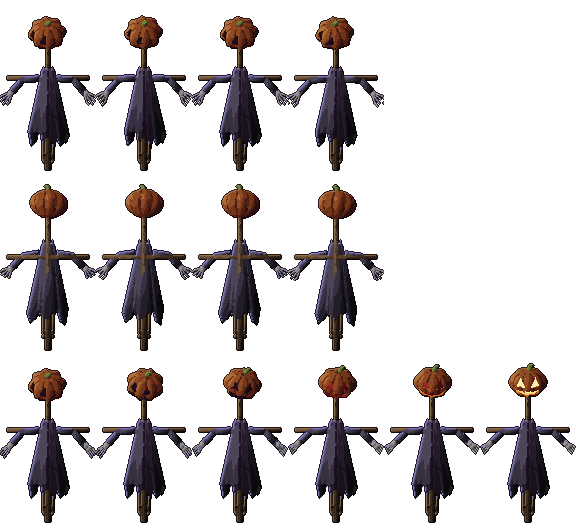
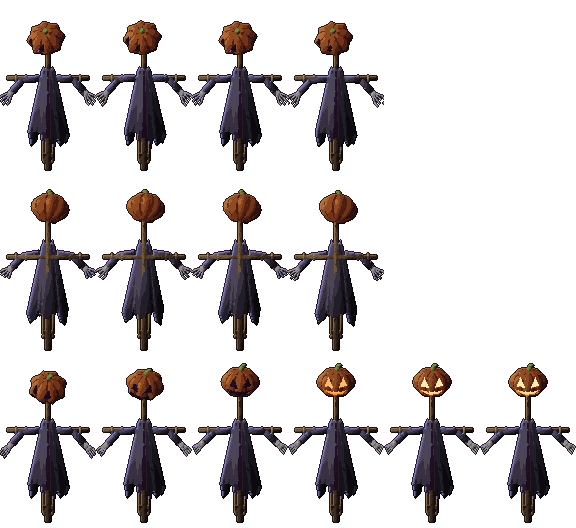
Scarecrow wake round 3: slumped by day, lifts and turns, then an amber kindle
Judge: same creature as the Hollow 8/10, scores 6 vs 4 for the installed wake. By day
the head hangs forward and rolled with the face hidden; looks 1-3 lift and turn it to
you; the candle then kindles in hot orange (the dark red read as blood) up to the
full glow. Rope lashings tie the sleeves to the bar. Old sheet kept in
spr/backup_v2/scarecrow_v2. Dunn and Gideon's reworked hurt failed twice; their old
hurt stays and the failed changes are removed from the generator.

Claude-Session: https://claude.ai/code/session_01P6pGQCq2oe4GSAnTdGYxNB

diff --git a/hollow-acre/2d/tools/px/chibi3.js b/hollow-acre/2d/tools/px/chibi3.js
@@ -569,10 +569,7 @@ ROWS.forEach(([clip,dir,nf],r)=>{for(let f=0;f<nf;f++){
     else if(f===1){pose.elbows=[[-4,-6],[3,4]];pose.hands=[[-6,-12],[-4,-6]];pose.guard=1;}
     else if(f===2){pose.elbows=[[-2,-2],[3,4]];pose.hands=[[-1,-7],[-4,-6]];pose.guard=1;}
     else if(f===3){pose.hands=[[1,-5],[-1,-4]];}
-    else if(f===4){pose.hands=[[0,3],[0,4]];
-      /* motion judge r5 (Dunn, Gideon 5): arms folded at rest, the hands snapped 7-8 px from the lap into the fold on the last
-         frame (a pop); this frame now goes half way there */
-      if(C.stance==='folded'){const t={};stance(t,side,dir,fl);if(t.hands){pose.hands=pose.hands.map((h,k)=>[Math.round((h[0]+t.hands[k][0])/2),Math.round((h[1]+t.hands[k][1])/2)]);pose.elbows=t.elbows;}}}
+    else if(f===4){pose.hands=[[0,3],[0,4]];}
     else{pose.hands=null;stance(pose,side,dir,fl);}
     /* motion judge r3 (Hob): on broad shoulders both fists at the chin sit level beside the beard and read as a shrug; there
        the screen-right arm drops out to the hip while the other fist guards the cheek. (After the chain: put inside it, its

diff --git a/hollow-acre/2d/tools/blender/hollow3d.py b/hollow-acre/2d/tools/blender/hollow3d.py
@@ -35,6 +35,9 @@ PAL = {
     'bone':    ['#2e2c2e', '#4c4a4e', '#6e6c70', '#8e8c8c', '#b0aca4'],
     'flesh':   ['#8a3a10', '#c8661c', '#e8923a', '#f6bc62', '#fde09a'],
     'glow':    ['#8a3410', '#d06a1c', '#f0a040', '#f8d27a', '#fcecb0'],
+    'ember':   ['#6a1c08', '#a8380c', '#d65c18', '#ee8a30', '#f6ae52'],   # the scarecrow waking: hot but dimmer than the glow, well above the skin's value
+    'glow_ember': ['#6a1c08', '#b8420e', '#e2701e', '#f29a3c', '#f8bc66'],
+    'rope':    ['#2a2018', '#43362a', '#5e4e3a', '#7a6a50', '#968466'],
 }
 for _k in ('coat', 'bone', 'stick'): PAL[_k + '_far'] = [PAL[_k][0]] + PAL[_k][:-1]   # the far limb: one step darker (judge r21)
 PAL['coat_near'] = PAL['coat'][2:] + ['#5e5670', '#706884']   # the near sleeve one step lighter: the arm reads against the coat (judge r23)
@@ -72,11 +75,11 @@ def toon_material(name, ramp):
     m = bpy.data.materials.new(name); m.use_nodes = True; nt = m.node_tree; nt.nodes.clear()
     out = nt.nodes.new('ShaderNodeOutputMaterial'); em = nt.nodes.new('ShaderNodeEmission'); em.inputs['Strength'].default_value = 1
     geo = nt.nodes.new('ShaderNodeNewGeometry')
-    if name == 'glow':
+    if name.startswith('glow'):
         cr = _ramp(nt, ramp, [0, .2, .4, .6, .8])
         lw = nt.nodes.new('ShaderNodeLayerWeight'); lw.inputs['Blend'].default_value = .5
         v = _math(nt, 'MULTIPLY_ADD', lw.outputs['Facing'], -.45, 1.0)
-    elif name == 'flesh':
+    elif name in ('flesh', 'ember'):
         cr = _ramp(nt, ramp, [0, .25, .45, .65, .85])
         sep = nt.nodes.new('ShaderNodeSeparateXYZ'); nt.links.new(geo.outputs['Normal'], sep.inputs[0])
         v = _math(nt, 'MULTIPLY_ADD', sep.outputs['Z'], -.35, .62)
@@ -275,15 +278,18 @@ def pose(t, clip, side_view=False, far=None):
         # owner, Nov 10: the scarecrow is the Hollow by day and must match it. Hung on its post: the arms along the crossbar,
         # the bone hands limp below it, the feet off the ground, the head slumped; 'scarelook' (you came close): the head
         # lifts and turns to you while the candle kindles
-        w = t / .84 if clip == 'scarelook' else 0.0; w = min(1.0, w); br = s * .02 if clip == 'scarecrow' else 0
+        # judge r2: look 1 matched the day frame (w started at 0): every look frame now moves on from the day pose
+        w = min(1.0, t + 1 / 6) if clip == 'scarelook' else 0.0; br = s * .02 if clip == 'scarecrow' else 0
+        up = min(1.0, w / .5)   # looks 1-3: the head lifts and turns to you; the candle kindles only once it is up
         for side in ('L', 'R'):
             x = -1 if side == 'L' else 1
             P['leg' + side] = [(x * .16, 0, HIP), (x * .17, -.03, HIP * .56), (x * .14, .04, .34)]   # dangling, the toes off the ground
             lift = .07 * min(1, max(0, (w - .3) / .2))   # judge r1: the forearms lift as it wakes, not only the head
             P['arm' + side] = [SH(x * .16, br), (x * .8, .02, 3.1 + br), (x * 1.18, -.03, 2.68 + br + lift)]   # along the crossbar, the forearm drooping (inside the 96 px frame)
         # judge r1: the wake spread over all six frames (claws curl; head half turned; ember eyes; ember mouth; mid glow; full)
-        P.update(sway=br, bob=br, pitch=2, head_tilt=(1 - w) * 15 + s * 2 * (1 - w), head_pitch=(1 - w) * 24 + w * 4, post=True, lit=w,
-                 turn=-38 * (1 - min(1, w / .4)), spread=.62 if clip == 'scarelook' else 1.0)
+        # judge r2: by day the head read as upright: now slumped well forward, rolled 18 deg and sunk 3 px onto the shoulder
+        P.update(sway=br, bob=br, pitch=2, head_tilt=(1 - up) * 18 + s * 2 * (1 - w), head_pitch=(1 - up) * 31 + 4, post=True, lit=w,
+                 turn=-38 * (1 - up), head_sink=.12 * (1 - up), spread=.62 if clip == 'scarelook' else 1.0)
     elif clip == 'crawl':   # on all fours like a spider: a hunched hump of coat, the head low in front looking at you,
                             # four long limbs with their knees and elbows up above the back, feet on one ground line
         P.update(pitch=45, drop=1.35, head_pitch=85, face_pitch=-140, head_tilt=s * 7, coat=(HIP + .8, HIP - .35, .28, .45), neck=.15, sleeves=False,
@@ -390,15 +396,17 @@ def build(clip, t, yaw):
     top, bot, rt, rb = P['coat'] or (3.45, 1.35 + P.get('hem_bob', P['bob']), .2, .56)   # narrow top: sloping shoulders
     torso = coat(top, bot, rt, rb, mats, P['sway'], hem_fwd=P.get('hem_fwd', 0.0))
     if P['hump']: torso.append(ball('hump', (0, .1, HIP + .35), .58, mats['coat'], (1.1, .9, 1.0)))
-    neck_base = Vector((0, 0, top - .05 + P['bob'])); neck_top = neck_base + Vector((0, 0, P['neck'] + P.get('head_lag', 0)))   # the head settles a beat late
+    neck_base = Vector((0, 0, top - .05 + P['bob'])); neck_top = neck_base + Vector((0, 0, P['neck'] + P.get('head_lag', 0) - P.get('head_sink', 0)))   # the head settles a beat late
     torso.append(segment('neck', neck_base, neck_top, .075, .055, mats['stick'], 8))
     hm = mats
     if P.get('lit') is not None:   # by day the candle is out: the carving is dark; waking, an ember, then the glow
         lit = P['lit']
-        if lit < .3: hm = dict(mats, glow=mats['void'], flesh=mats['void'])                                     # dark
-        elif lit < .5: hm = dict(mats, glow=mats['void'], flesh=mats['button'], mouthflesh=mats['void'])       # ember eyes
-        elif lit < .7: hm = dict(mats, glow=mats['button'], flesh=mats['button'])                             # ember eyes and mouth
-        elif lit < .9: hm = dict(mats, glow=mats['button'], flesh=mats['flesh'])                              # mid orange
+        # judge r2: the dark-red ember read as rot (its value sat on the skin's): the ember is a bright hot orange, dimmer than
+        # the full glow, and it only comes once the head is up (looks 4-6, by brightness)
+        if lit <= .55: hm = dict(mats, glow=mats['void'], flesh=mats['void'])                                       # dark
+        # (the eye holes show the candle, so 'ember eyes' over a dark candle rendered dark: the candle itself kindles)
+        elif lit < .75: hm = dict(mats, glow=mats['glow_ember'], flesh=mats['ember'])                             # a dim ember
+        elif lit < .95: hm = dict(mats, glow=mats['glow'], flesh=mats['ember'])                                   # brighter
         else: hm = mats
     r = .5; head = pumpkin(r, hm, P['mouth'])
     piv = bpy.data.objects.new('headpivot', None); bpy.context.scene.collection.objects.link(piv); piv.location = neck_top
@@ -417,6 +425,8 @@ def build(clip, t, yaw):
     objs += torso
     if P.get('post'):   # the scarecrow's post and crossbar, behind it
         objs += [segment('post', (0, .2, -.02), (0, .2, 4.05), .085, .075, mats['stick'], 8), segment('bar', (-1.32, .17, 3.1), (1.32, .17, 3.1), .065, .065, mats['stick'], 8)]
+        for x in (-1.04, -.7, .7, 1.04):   # judge r1: rope lashings tie the sleeves to the bar (a scarecrow is bound, not resting)
+            objs.append(segment('lash', (x - .035, .12, 3.1), (x + .035, .12, 3.1), .115, .115, mats['rope'], 8))
     # everything turns to face its direction (and slides back by 'shift' along its own facing)
     root = bpy.data.objects.new('root', None); bpy.context.scene.collection.objects.link(root)
     for o in objs: o.parent = root

diff --git a/hollow-acre/2d/tools/px/PRACTICE_LOG.md b/hollow-acre/2d/tools/px/PRACTICE_LOG.md
@@ -75,3 +75,6 @@ One row per critiqued attempt. The point is to see the number of attempts per ki
 | 2026-11-10 | scarecrow wake | 2 | 6 vs 5 (both SIMILAR 8) | look 1 still matches the day frame; the head starts upright so there is no turn; the ember reads as rot (value too close to the skin) | INSTALLED: the wake over six frames |
 | 2026-11-10 | watering can (end-on views) | 7 | SIMILAR 7; 6 vs 4 | facing up the water rises like a fountain; frames 4 and 7 end on one pixel (frozen); the face-on can has no neck or hoop | INSTALLED: hand-drawn end-on drum views facing down/up, icon greens, grey rose |
 | 2026-11-10 | hoe, axe, pick in hand (icon match + motion) | 1 | axe a SIMILAR 7, 6 vs b NOT SIMILAR 4; pick a SIMILAR 7, 6 vs b NOT SIMILAR 5; hoe a 5 vs b 6 | axe: add a 2 px poll and a longer beard, mid grey with a white edge; pick: thicken the middle to 3-4 px with a dark eye, taper to 1 px points; hoe (old) clods: soil-brown outline, not near-black | INSTALLED axe flared wedge + pick crescent; hoe lumps REVERTED (old clods kept) |
+| 2026-11-10 | hurt, Dunn + Gideon (folded arms) | 6 | new 4 vs installed 5 (both men) | F1 one arm up and the other hanging reads as a wave/hail (the guard fist never reaches the chin on the broad body); F1 = F2 and F3 = F4 (three real poses); F2 to F3 drops 8-11 px; eyes pop open on the last frame | NOT installed (old hurt kept); next: F1 uneven fling (one hand above the brim, the other a fist at the chin, head back 1-2 px, eyes wide), F2 a real in-between |
+| 2026-11-10 | hurt, Dunn + Gideon | 7 | Dunn new 4 vs old 5; Gideon new 3 vs old 4 | the raised hand by the brim reads as a hat-tip/salute, overhead as a wave; the hand on the temple merges into the face at 1x; f4 to f5 still jumps 11-14 px; Gideon's sleeve reads as a banded straw | NOT installed; PARKED (old hurt kept). Next time: key the impact as a recoil (head and shoulders knocked back, both forearms up in front of the face, crossed), not one arm raised |
+| 2026-11-10 | scarecrow wake | 3 | SIMILAR 8; 6 vs 4 | candle goes dark, amber, full, full (looks 3-6): kindle a frame earlier for four distinct steps; only the head moves (curl the bone fingers 1-2 px on looks 5-6); the slump is a rigid tilt | INSTALLED: head slumped forward and rolled by day (face hidden), lifts and turns over looks 1-3, a hot-orange ember (not red) then full glow, rope lashings on the bar |

diff --git a/hollow-acre/2d/tools/px/LESSONS.md b/hollow-acre/2d/tools/px/LESSONS.md
@@ -448,3 +448,7 @@ Each line is something an attempt taught. Newest and repeated mistakes go to the
 
 - Tools in hand (judge, Nov 10): an axe head drawn round reads as a pan or spade; it needs the flare, a beard toward the hands and a poll behind the haft. A pick seen end-on must show the point leading, never a white ball. A pick's crescent is thick at the haft and tapers to 1 px points, not an even-width sickle.
 - Debris (judge, Nov 10): pale specks vanish into the dirt they fly over; the darker clods with an outline read better. Outline debris in its own darkest tone, never near-black.
+- Hurt on broad bodies (judge, Nov 10): if the guard fist doesn't reach the chin, a single raised arm reads as a wave or a hail. Check that the guard hand is actually drawn at the chin on every body width. Two near-identical frames waste an in-between, and the eyes must not pop open on the last frame (open them a frame earlier).
+- Hurt (judge r7, Nov 10): one hand raised beside the head reads as a hat-tip, a salute or a wave whatever the other hand does. A struck pose must read in its silhouette: the head and shoulders knocked back, the body twisted, the forearms up in front of the face.
+- Glow (judge, Nov 10): a dark-red ember reads as blood or rot. Kindling light must be amber/orange and brighter in value than the surface it sits in. The light shows through the holes, so the source (the candle) must kindle too, not only the walls.
+- Waking (judge, Nov 10): a slump by day has to be big enough to hide the face (head well forward and rolled) or it reads as standing. Spread the change across every frame, with no two frames alike.
